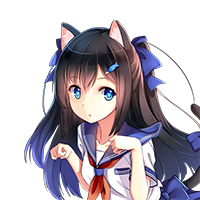
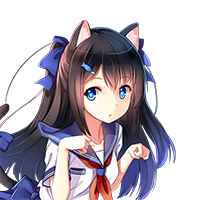
Fix dialog orientation

diff --git a/src/main/java/nekochan/ui/DialogBox.java b/src/main/java/nekochan/ui/DialogBox.java
@@ -45,16 +45,16 @@ public class DialogBox extends HBox {
 
 
     public static DialogBox getUserDialog(String text, Image image) {
-        return new DialogBox(text, image).flip();
+        return new DialogBox(text, image);
     }
 
     public static DialogBox getNekoDialog(String text, Image image) {
-        return new DialogBox(text, image);
+        return new DialogBox(text, image).flip();
     }
 
     public static DialogBox getErrorDialog(String text, Image image) {
         DialogBox node = new DialogBox(text, image);
-        return node.highlightError();
+        return node.flip().highlightError();
     }
 
     private DialogBox flip() {
